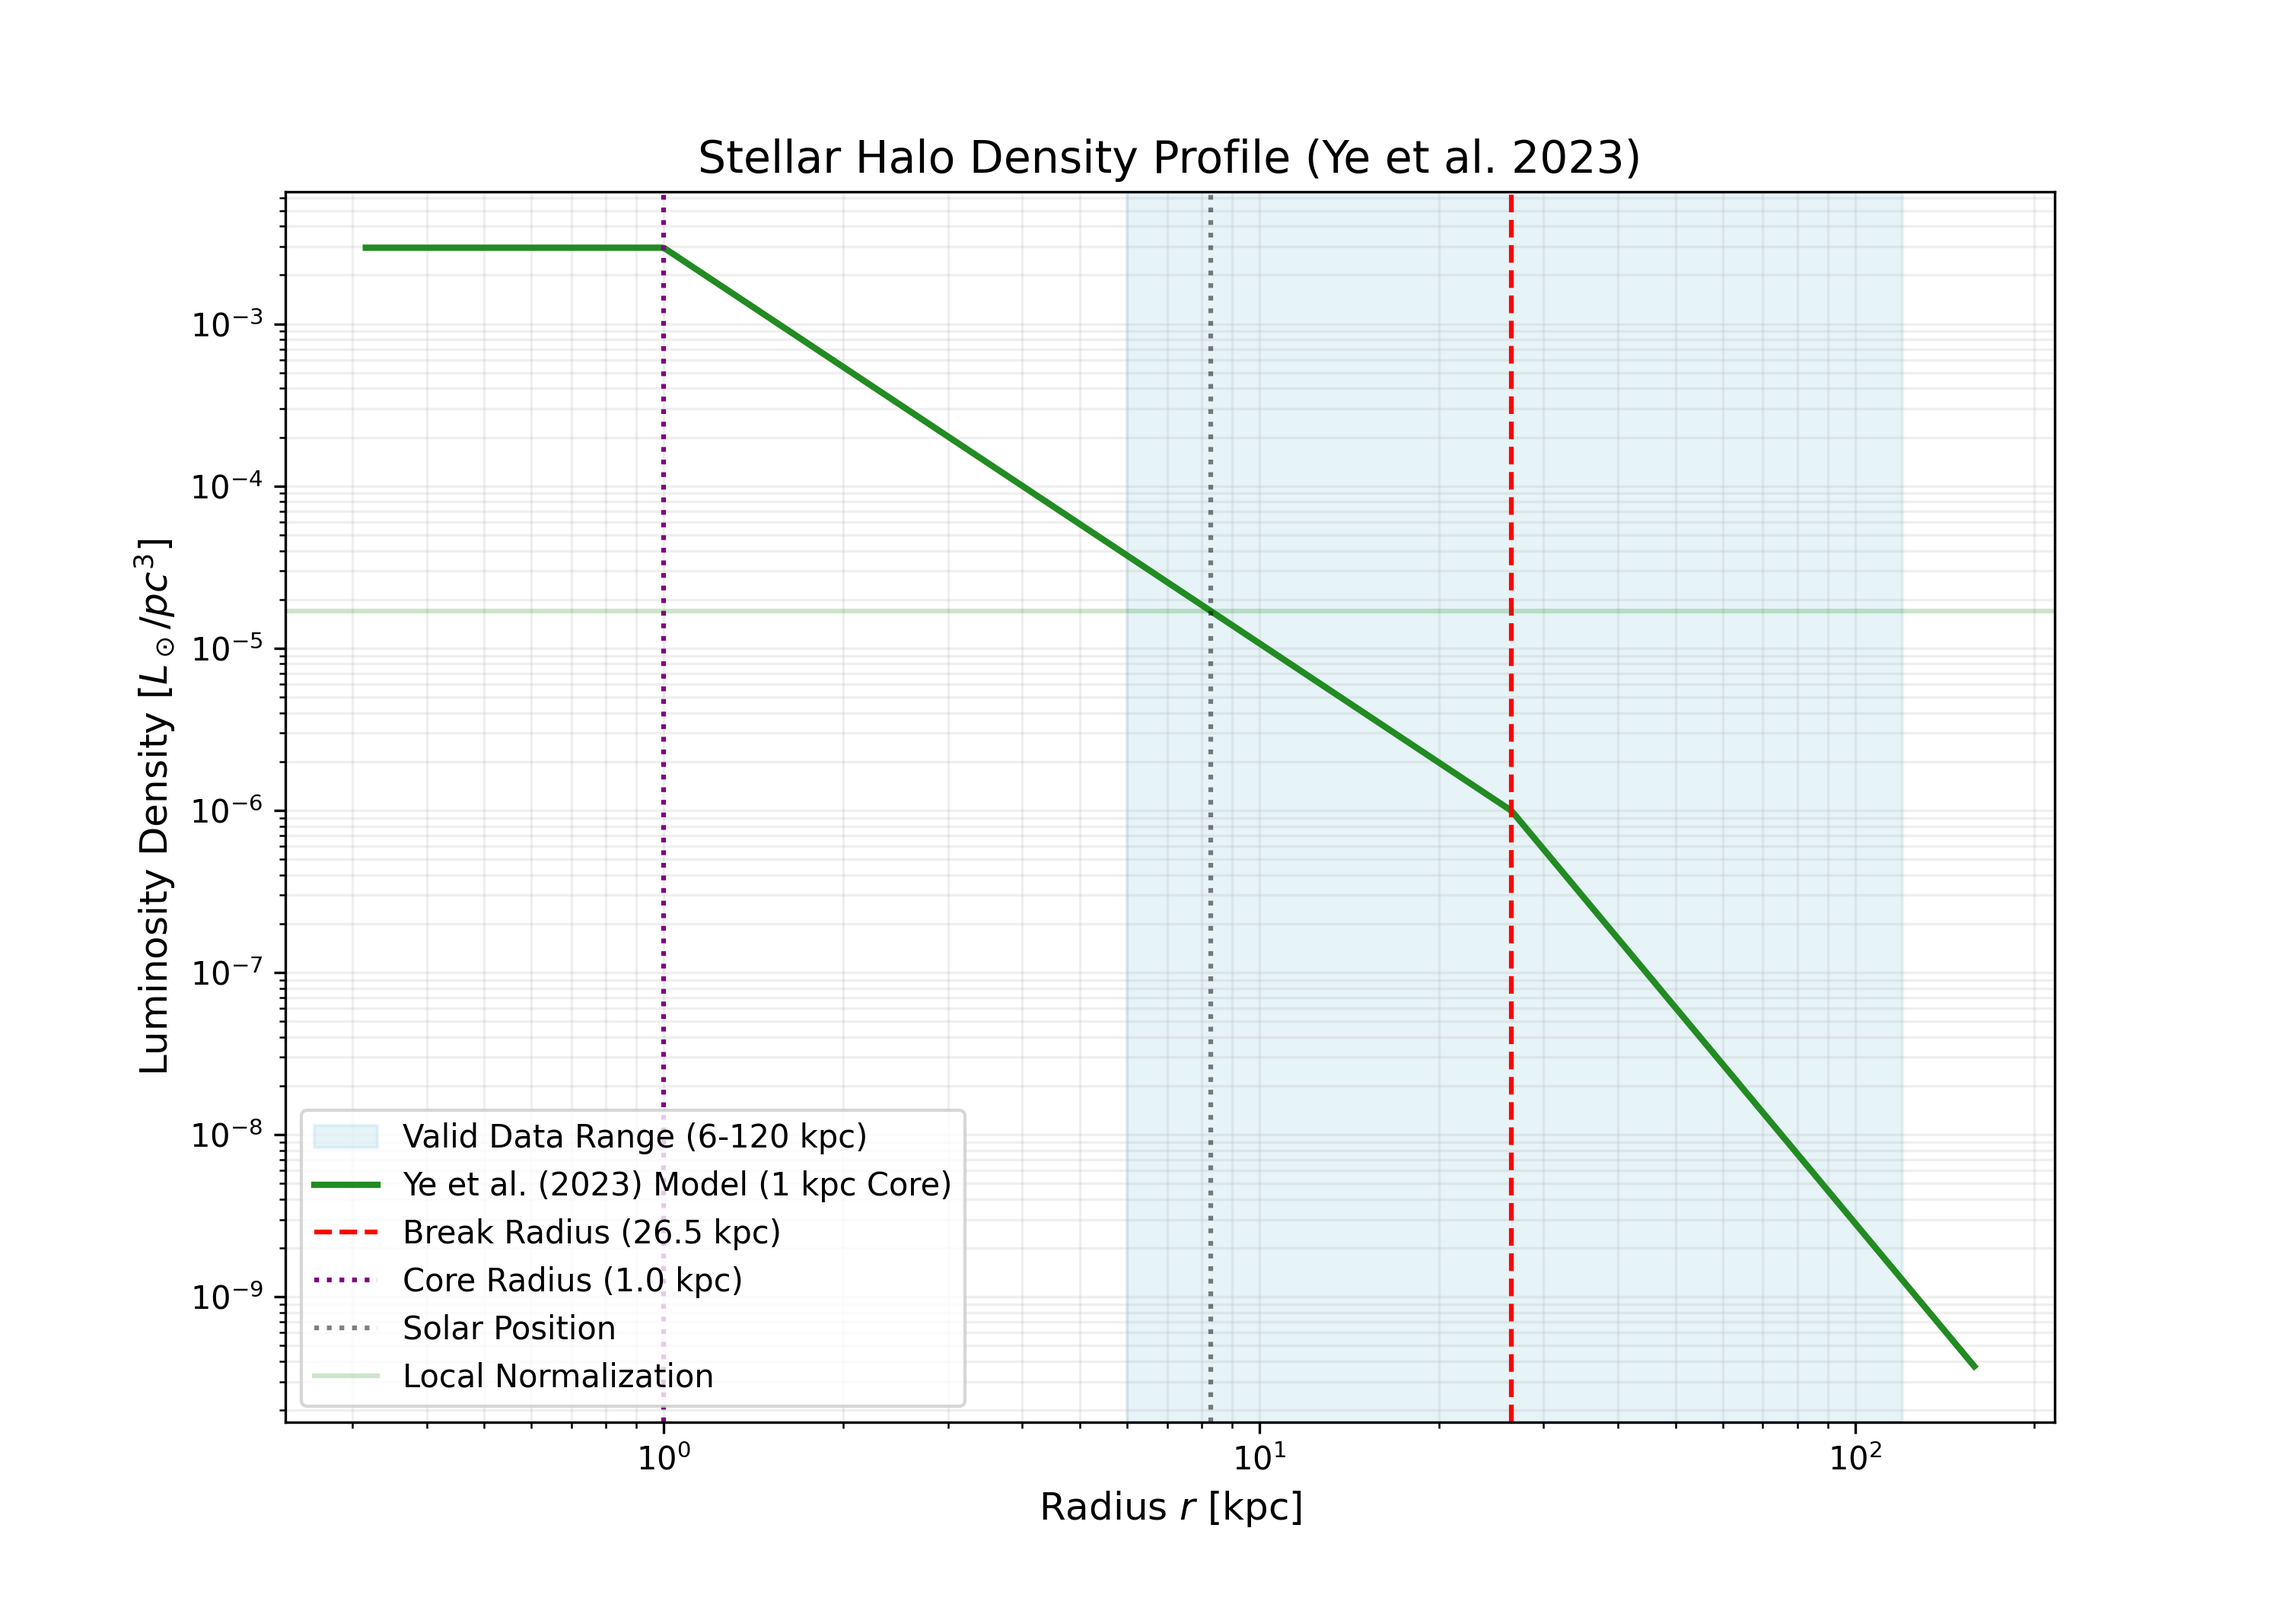
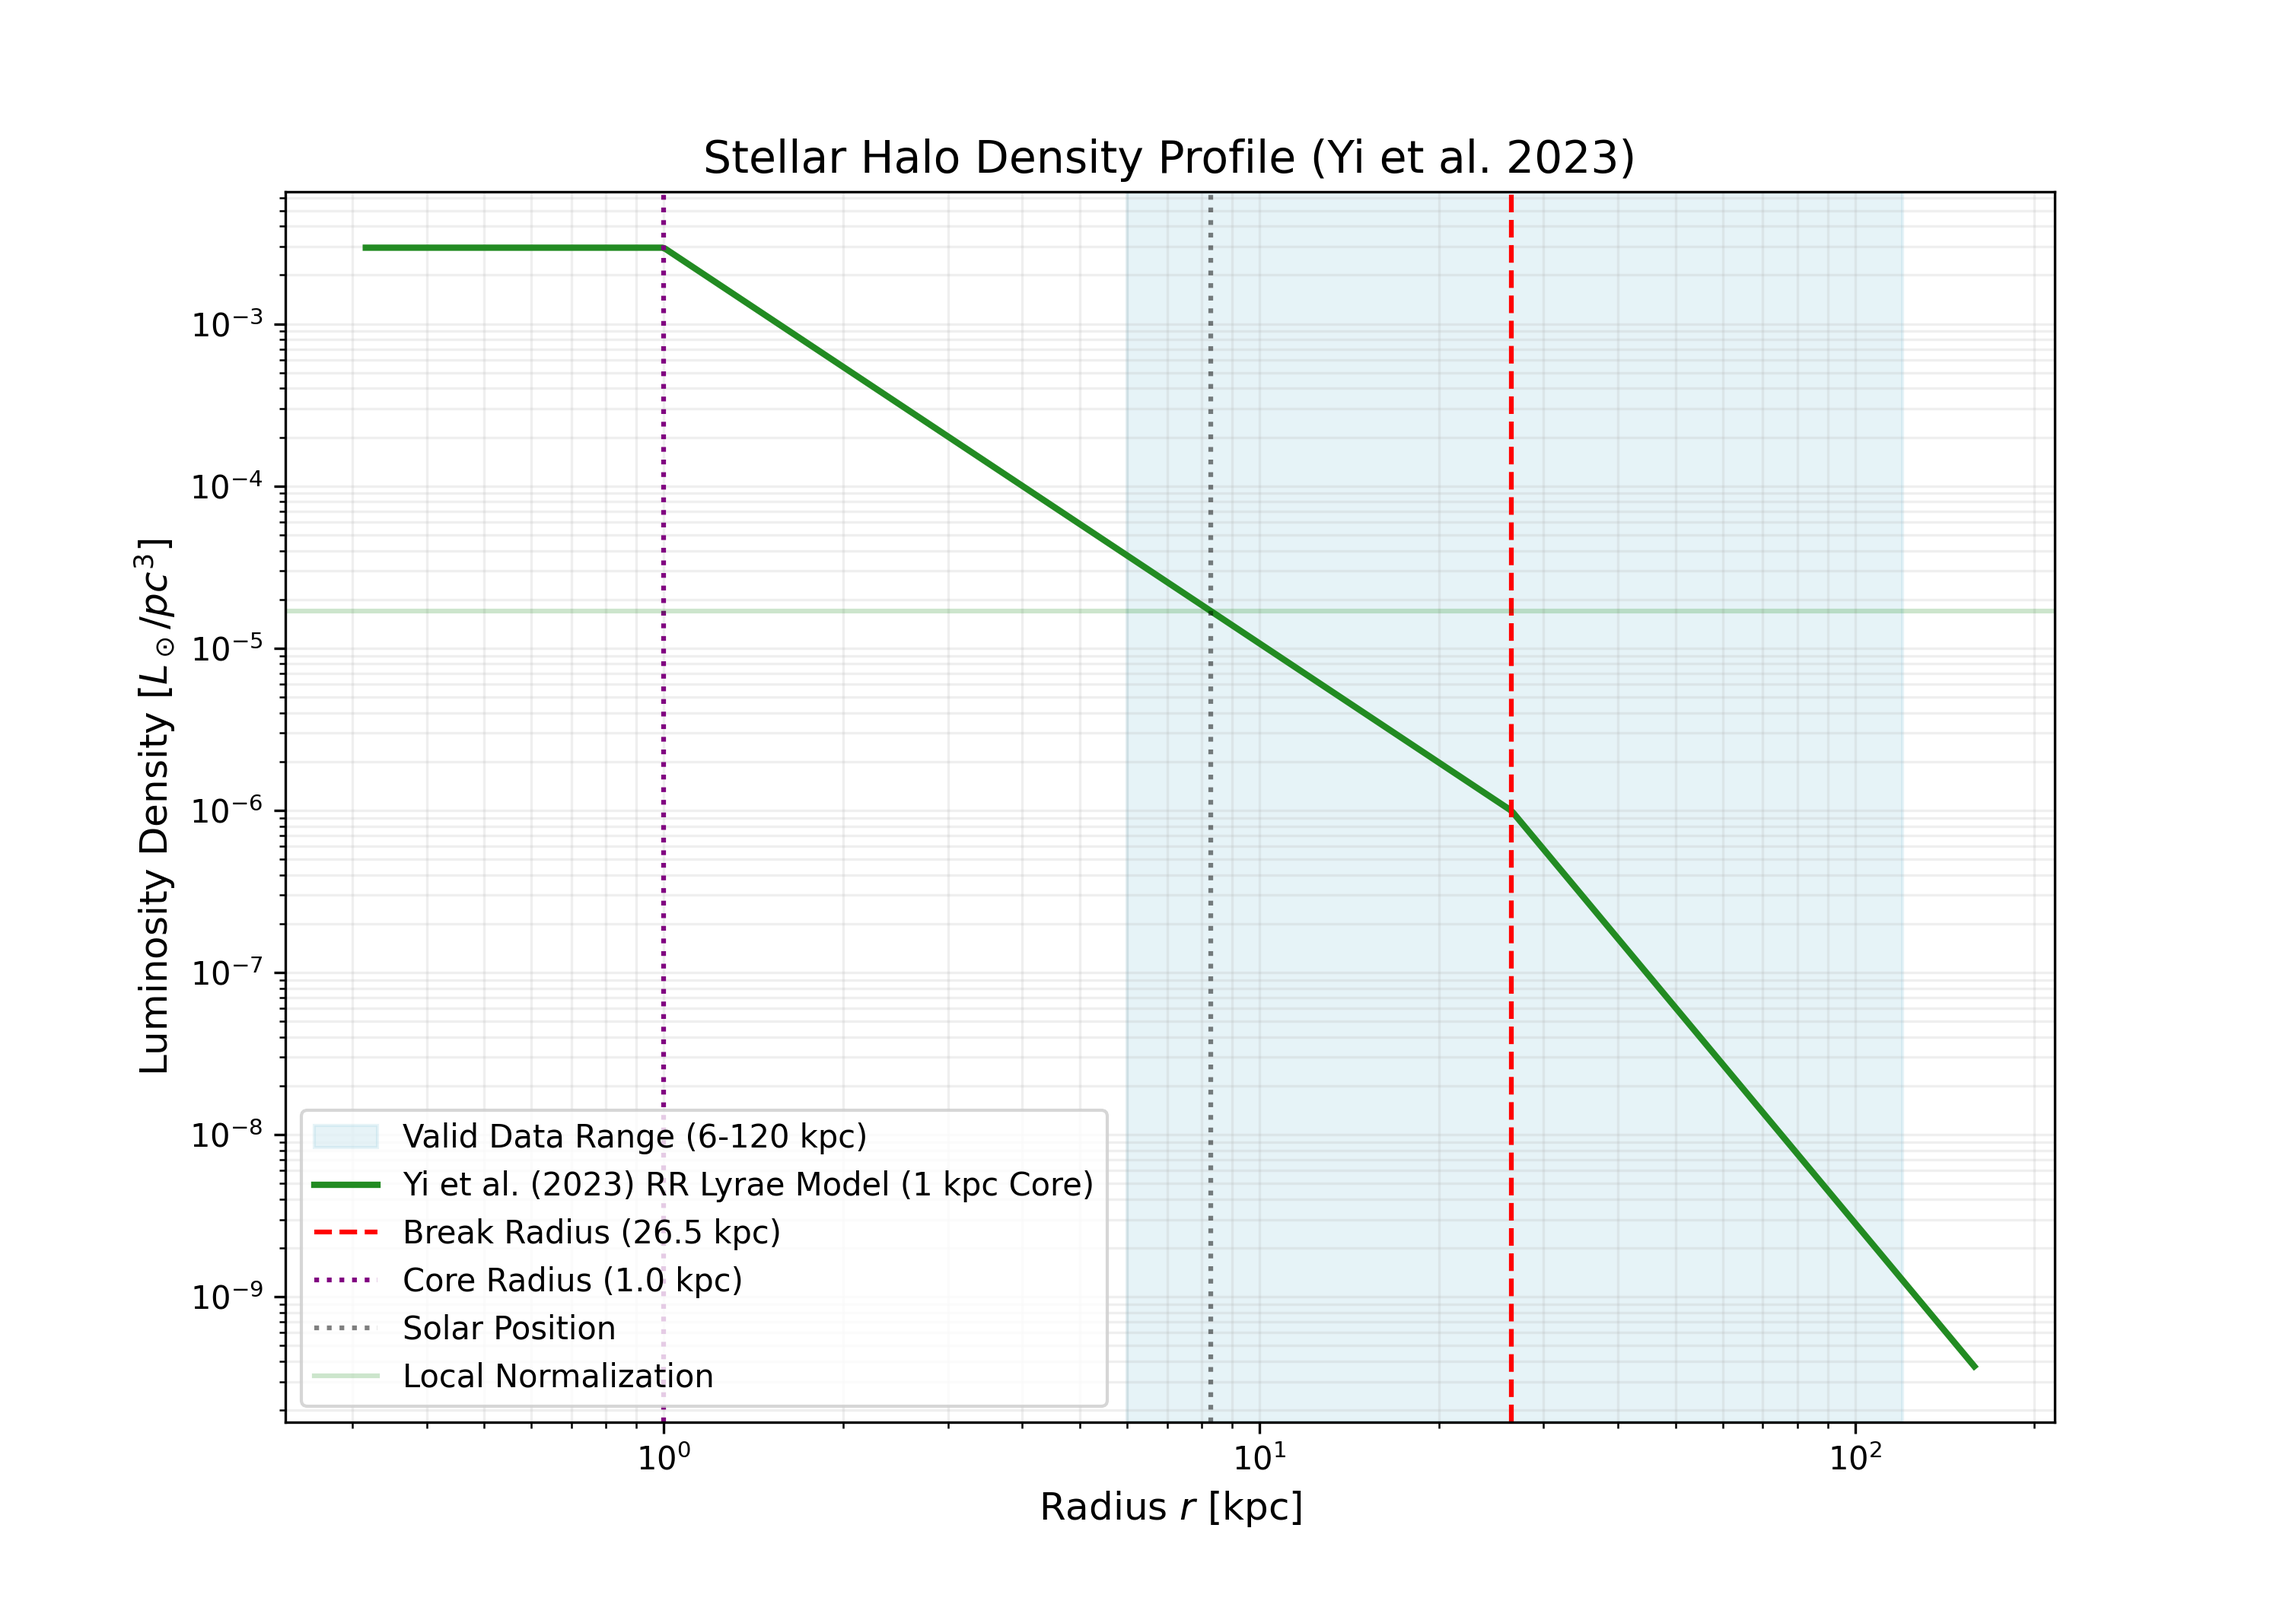
Add files via upload
Yi et al to Ye et al fix

Changed region(s): [[0.31, 0.0929, 0.713, 0.1238], [0.186, 0.7119, 0.434, 0.7738]]

diff --git a/script.js b/script.js
@@ -76,7 +76,7 @@ const ModelPhysics = {
             cavieres2025: 4 * Math.PI * 0.8 * 0.7,
             feng2024: 4 * Math.PI * 1.0 * 1.0,
             fukushima2025: 4 * Math.PI * 1.0 * 1.56,
-            yi2023: 4 * Math.PI * 1.0 * 0.73,
+            ye2023: 4 * Math.PI * 1.0 * 0.73,
             tao2026: 4 * Math.PI * 1.0 * 0.8,
             lane2023: 4 * Math.PI * 1.0 * 1.25
         };
@@ -109,7 +109,7 @@ const ModelPhysics = {
             cavieres2025: 0.98,
             feng2024: 1.0,
             fukushima2025: 1.56,
-            yi2023: 0.73,
+            ye2023: 0.73,
             tao2026: 0.8,
             lane2023: 1.25
         };
@@ -292,7 +292,7 @@ const ModelPhysics = {
         return ModelPhysics.applyCore(r, core, (rad) => rho_norm * getRaw(rad));
     },
 
-    yi2023: (r) => {
+    ye2023: (r) => {
         const ai=2.44, ao=4.41, rb=26.5, core=1.0, R_sun=8.275;
         const getRaw = (rad) => rad < rb ? Math.pow(rad, -ai) : Math.pow(rb, ao-ai) * Math.pow(rad, -ao);
         const rho_norm = (1.7e-5) / getRaw(R_sun);

diff --git a/assets/ye2023_density_model.py b/assets/ye2023_density_model.py
@@ -3,7 +3,7 @@ import matplotlib.pyplot as plt
 
 def calculate_ye2023_halo():
     # Parameters from Ye et al. (2023) - MNRAS 525, 2472
-    # Model: Broken Power Law (LAMOST-Gaia common K giants)
+    # Model: Broken Power Law (Gaia DR3 RR Lyrae)
     alpha_in = 2.44
     alpha_out = 4.41
     r_break = 26.5
@@ -18,11 +18,14 @@ def calculate_ye2023_halo():
     # Broken Power Law Profile with Core
     def profile(r):
         if r < r_core:
-            return r_core**-alpha_in
-        elif r < r_break:
-            return r**-alpha_in
+            r_eff = r_core
         else:
-            return (r_break**(alpha_out - alpha_in)) * (r**-alpha_out)
+            r_eff = r
+            
+        if r_eff < r_break:
+            return r_eff**-alpha_in
+        else:
+            return (r_break**(alpha_out - alpha_in)) * (r_eff**-alpha_out)
 
     # Normalization at the Sun
     norm_at_sun = profile(R_sun)
@@ -31,17 +34,14 @@ def calculate_ye2023_halo():
     # Analytical Integration for Luminosity
     # L = 4 * pi * q * Integral[ rho(r) * r^2 dr ]
     
-    # Part 0: 0 to r_core
-    int0 = (r_core**-alpha_in) * (r_core**3 / 3.0)
-    # Part 1: r_core to r_break
-    int1 = (r_break**(3 - alpha_in) - r_core**(3 - alpha_in)) / (3 - alpha_in)
-    # Part 2: r_break to infinity
-    C = r_break**(alpha_out - alpha_in)
-    int2 = C * (0 - r_break**(3 - alpha_out)) / (3 - alpha_out)
+    def integrand(r):
+        return profile(r) * r**2
     
-    L_total = 4 * np.pi * q * rho_0 * (int0 + int1 + int2)
+    from scipy.integrate import quad
+    res, err = quad(integrand, 0, 500)
+    L_total = 4 * np.pi * q * (rho_0) * res
 
-    print(f"--- Ye et al. (2023) - Discovery of the shell structure via break radii in the outer halo of the Milky Way ---")
+    print(f"--- Ye et al. (2023) Gaia DR3 RR Lyrae Halo Properties ---")
     print(f"Central Norm (rho_0 at 1kpc): {rho_0:.2e} Lsun/kpc^3")
     print(f"Total Halo Luminosity:        {L_total:.2e} Lsun")
     print(f"Break Radius (r_break):       {r_break} kpc")
@@ -49,7 +49,7 @@ def calculate_ye2023_halo():
     print(f"Inner Slope (alpha_in):       {alpha_in}")
     print(f"Outer Slope (alpha_out):      {alpha_out}")
     print(f"Flattening (q):               {q}")
-    print(f"---------------------------------------------------------------------------------------------------------")
+    print(f"----------------------------------------------------------")
 
     # Plotting
     r_vals = np.logspace(-0.5, 2.2, 500)
@@ -57,7 +57,7 @@ def calculate_ye2023_halo():
 
     plt.figure(figsize=(10, 7))
     plt.axvspan(6, 120, color='lightblue', alpha=0.3, label='Valid Data Range (6-120 kpc)')
-    plt.loglog(r_vals, rho_vals / (1000**3), color='forestgreen', linewidth=2, label='Ye et al. (2023) Model (1 kpc Core)')
+    plt.loglog(r_vals, rho_vals / (1000**3), color='forestgreen', linewidth=2, label='Ye et al. (2023) RR Lyrae Model (1 kpc Core)')
     
     # Markers
     plt.axvline(r_break, color='red', linestyle='--', label=f'Break Radius ({r_break} kpc)')

diff --git a/compendium_plots.py b/compendium_plots.py
@@ -34,7 +34,7 @@ MODELS_JSON = """
   {"id": "cavieres2025", "title": "Cavieres et al. (2025)", "luminosity": "5.79e+08 L⊙", "range": {"min": 20, "max": 100}},
   {"id": "feng2024", "title": "Feng et al. (2024)", "luminosity": "1.52e+09 L⊙", "range": {"min": 20, "max": 300}},
   {"id": "fukushima2025", "title": "Fukushima et al. (2025)", "luminosity": "1.82e+09 L⊙", "range": {"min": 36, "max": 575}},
-  {"id": "yi2023", "title": "Yi et al. (2023)", "luminosity": "3.84e+08 L⊙", "range": {"min": 6, "max": 120}},
+  {"id": "ye2023", "title": "Ye et al. (2023)", "luminosity": "3.84e+08 L⊙", "range": {"min": 6, "max": 120}},
   {"id": "tao2026", "title": "Tao et al. (2026)", "luminosity": "6.50e+08 L⊙", "range": {"min": 10, "max": 100}},
   {"id": "medina2018", "title": "Medina et al. (2018)", "luminosity": "1.19e+09 L⊙", "range": {"min": 10, "max": 200}}
 ]
@@ -71,7 +71,7 @@ class ModelPhysics:
             'cavieres2025': 4 * np.pi * 1.0 * 0.98,
             'feng2024': 4 * np.pi * 1.0 * 1.0,
             'fukushima2025': 4 * np.pi * 1.0 * 1.56,
-            'yi2023': 4 * np.pi * 1.0 * 0.73,
+            'ye2023': 4 * np.pi * 1.0 * 0.73,
             'tao2026': 4 * np.pi * 1.0 * 0.8,
             'lane2023': 4 * np.pi * 1.0 * 1.25
         }
@@ -138,7 +138,7 @@ class ModelPhysics:
         if id == 'cavieres2025': return bpl(r, 3.13, 7.46, 67.5)
         if id == 'feng2024': return spl(r, 4.09)
         if id == 'fukushima2025': return bpl(r, 3.90, 9.1, 184.0)
-        if id == 'yi2023': return bpl(r, 2.44, 4.41, 26.5)
+        if id == 'ye2023': return bpl(r, 2.44, 4.41, 26.5)
         if id == 'tao2026': return spl(r, 3.5)
         return 0
 

diff --git a/assets/suzuki2026_density_model.py b/assets/suzuki2026_density_model.py
@@ -3,7 +3,7 @@ import matplotlib.pyplot as plt
 
 def calculate_suzuki2026_halo():
     # Parameters from Suzuki et al. (2026) - arXiv:2604.10280
-    # Model: Double Power Law (MSTO stars)
+    # Model: Double broken Power Law (MSTO stars)
     alpha_in = 3.3
     alpha_out = 4.8
     r_break = 17.4
@@ -15,7 +15,7 @@ def calculate_suzuki2026_halo():
     rho_local_Lsun_pc3 = 1.7e-5
     rho_local_Lsun_kpc3 = rho_local_Lsun_pc3 * (1000**3)
 
-    # Double Power Law Profile with Core
+    # Double broken Power Law Profile with Core
     def profile(r):
         if r < r_core:
             return r_core**-alpha_in

diff --git a/assets/chen2023_density_model.py b/assets/chen2023_density_model.py
@@ -62,7 +62,7 @@ def calculate_chen2023_halo():
 
     plt.figure(figsize=(10, 7))
     plt.axvspan(5, 100, color='lightblue', alpha=0.3, label='Valid Data Range (5-100 kpc)')
-    plt.loglog(r_vals, rho_vals / (1000**3), color='purple', linewidth=2, label='4-parameter BPL model (1 kpc Core)')
+    plt.loglog(r_vals, rho_vals / (1000**3), color='purple', linewidth=2, label='broken power law (1 kpc Core)')
     
     # Markers
     plt.axvline(r0, color='red', linestyle='--', label=f'Break Radius ({r0} kpc)')

diff --git a/assets/kurbatov2024_density_model.py b/assets/kurbatov2024_density_model.py
@@ -3,7 +3,7 @@ import matplotlib.pyplot as plt
 
 def calculate_kurbatov2024_halo():
     # Parameters from Kurbatov et al. (2024) - arXiv:2410.22250
-    # Model: Cored Power Law (Single-component model for the "heart" of the Galaxy)
+    # Model: Single Power Law (Single-component model for the "heart" of the Galaxy)
     alpha = 3.4
     r_core = 1.0   # 1 kpc constant density core (project requirement)
     q = 0.5        # Highly flattened vertical axis ratio
